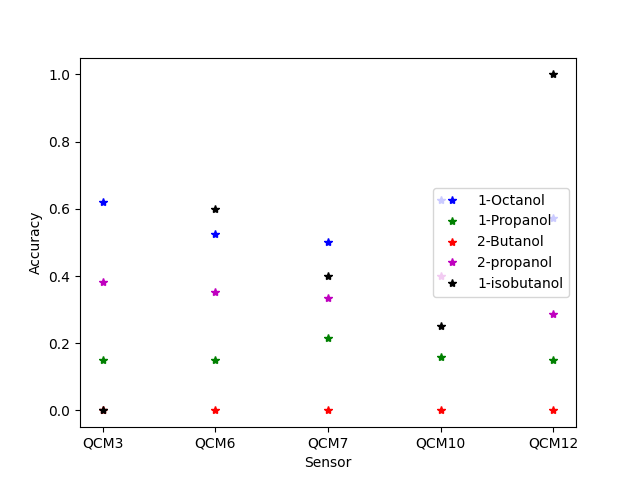
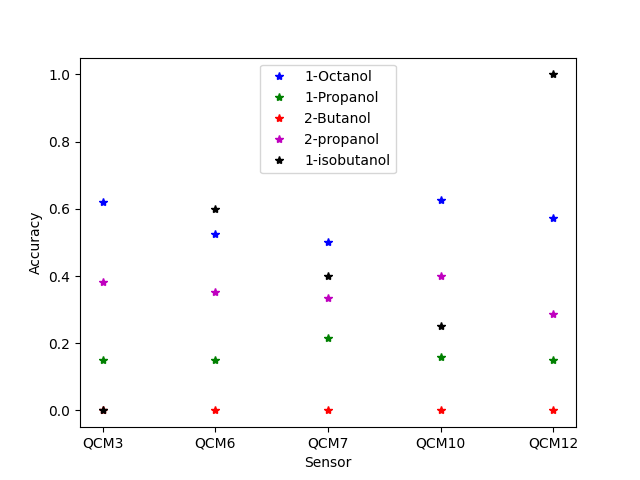
final report

diff --git a/ml_alcohol4no_conc.py b/ml_alcohol4no_conc.py
@@ -447,19 +447,34 @@ random classification_report dict:
     
     
     # prediction:
+
+# Выбранная нормировка идет по функции (y = (x – min) / (max – min)), доступно преобрование методом
+# https://scikit-learn.org/stable/modules/generated/sklearn.preprocessing.MinMaxScaler.html
+# Methods 
+# fit(X[, y]) Compute the minimum and maximum to be used for later scaling.
+# inverse_transform(X) Undo the scaling of X according to feature_range.
+# transform(X) Scale features of X according to feature_range.
+
+    test = np.array([-50])
+    scaled_test = min_max_scaler.transform(test.reshape(-1,1))
+    print('for test_value = %5.2f ' % test, 'test_predict = ', scaled_test)
+    # for test_value = -50.00 test_predict =  [[0.85436221]]    
+    
     test = np.array([0.02])    
     test_predict = grid_search.best_estimator_.predict(test.reshape(-1,1))
     print('test_predict for %5.2f =' % test[0], test_predict)
     
-    # test_predict for 0.82 = ['1-Octanol']
-    #  0.22 = ['2-Butanol']
+    # test_predict for 
+    # 0.02 = ['2-Butanol']     
+    # 0.22 = ['2-Butanol']
     # 0.42 = ['1-Propanol']
     # 0.42 = ['2-Butanol']
     # 0.42 = ['1-Propanol']
     # 0.42 = ['2-Butanol']
     # 0.42 = ['1-Propanol']
     # 0.62 = ['1-Propanol']
-    #  0.02 = ['2-Butanol'] 
+    # 0.82 = ['1-Octanol']
+
 '''    
 # Halving Grid Search¶
 
@@ -533,8 +548,6 @@ See the documentation.
 '''
 #print(precision)
 
-
-
 # Debugging:
 #for sens in precision:
 #    print('sens[0]: \n', sens[0])
@@ -553,7 +566,7 @@ for sens in precision:
         
 
 # plt.plot(precision[0],y_log, 'r*' , label = 'Log reg') 
-plt.legend(alcohols, loc = 'center right')
+plt.legend(alcohols, loc = 'upper center')
 
 plt.xlabel('Sensor')
 plt.ylabel('Accuracy')
@@ -562,10 +575,3 @@ plt.show()
 
 #  "на самом деле" надо было анализировать зависимость разпознавания от концентрации и показать в конце, какая концентрация распознается надежно и какая не надежно. 
 # Но вообще тк смеси конские - то все должно быть надежно.
-# непонятно только как нормировать экспериментальные данные, тк формула нормировки неизвестна. Приходится подставлять числа от 0 до 1. Нужно знать параметры минимума и максимума откуда-то (y = (x – min) / (max – min))
-# видимо функции есть?
-# https://scikit-learn.org/stable/modules/generated/sklearn.preprocessing.MinMaxScaler.html
-# Methods 
-# fit(X[, y]) Compute the minimum and maximum to be used for later scaling.
-# inverse_transform(X) Undo the scaling of X according to feature_range.
-# transform(X) Scale features of X according to feature_range.
